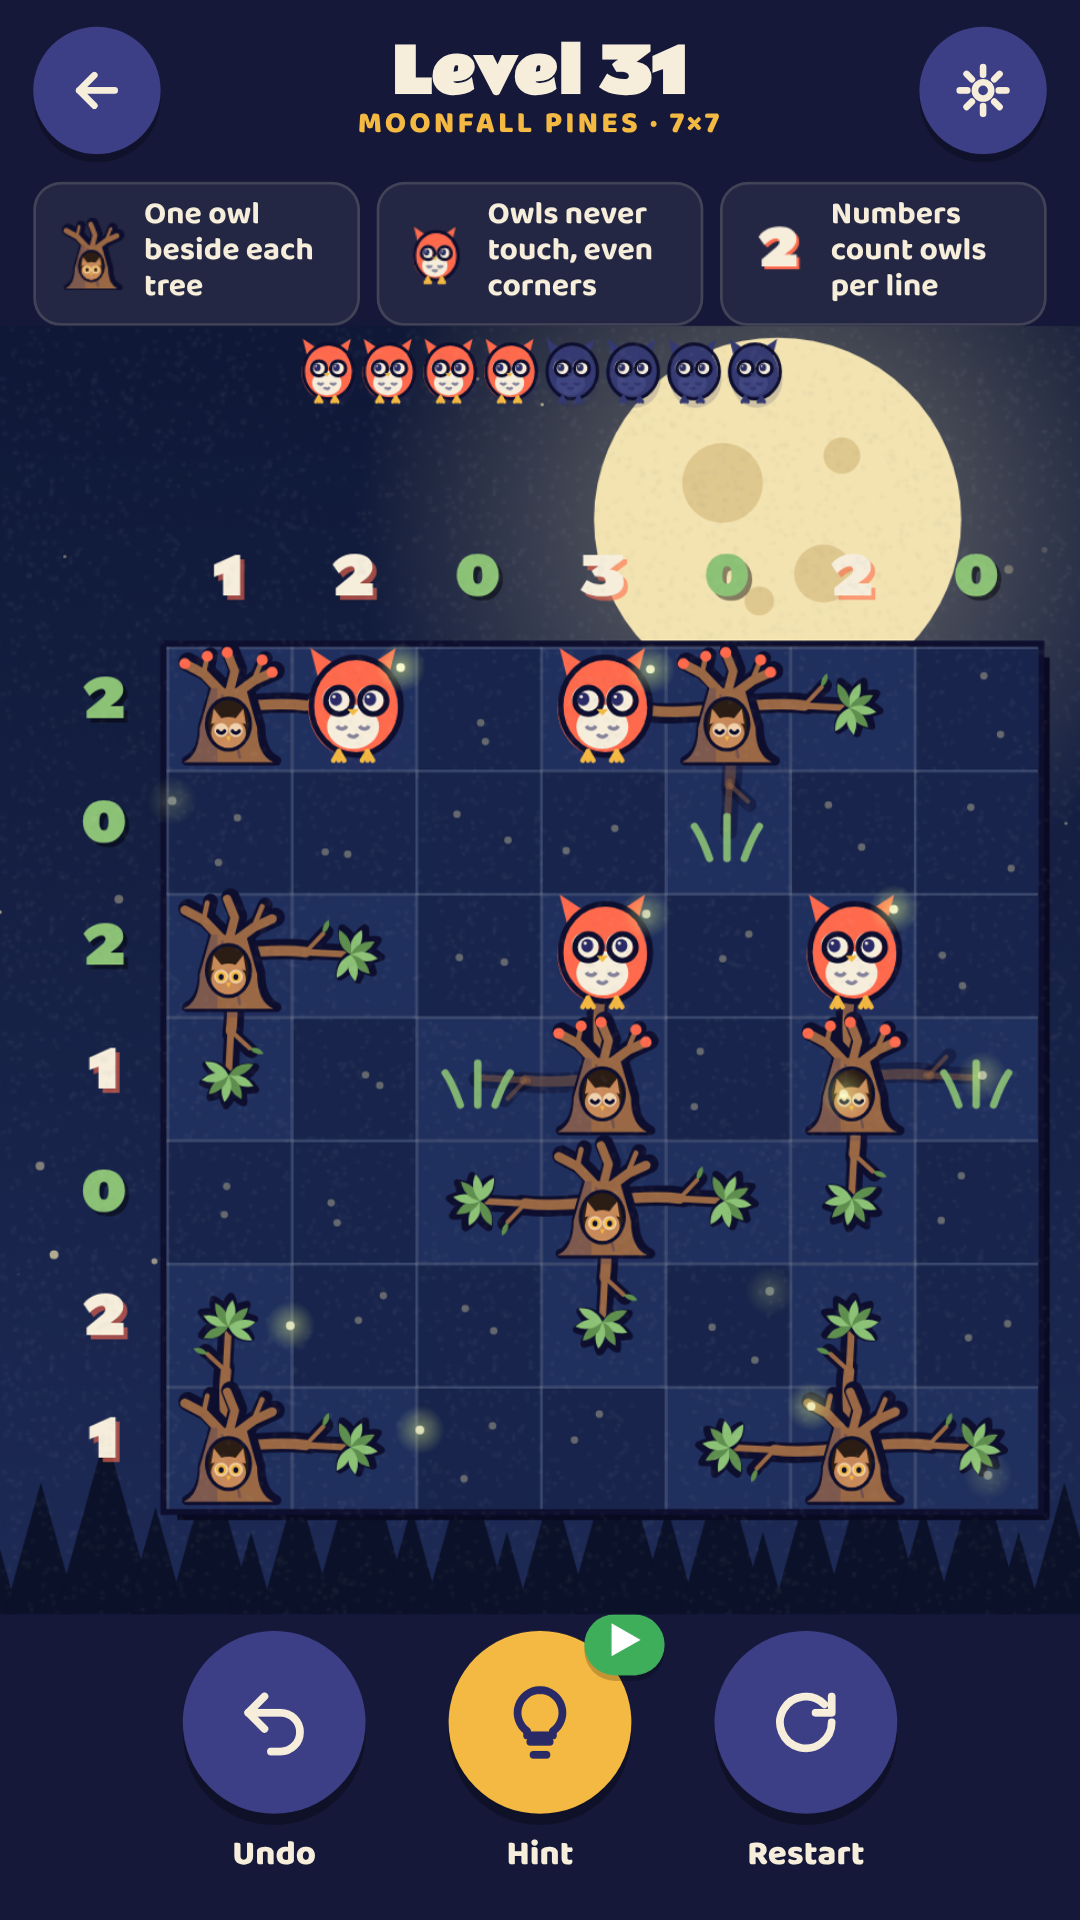
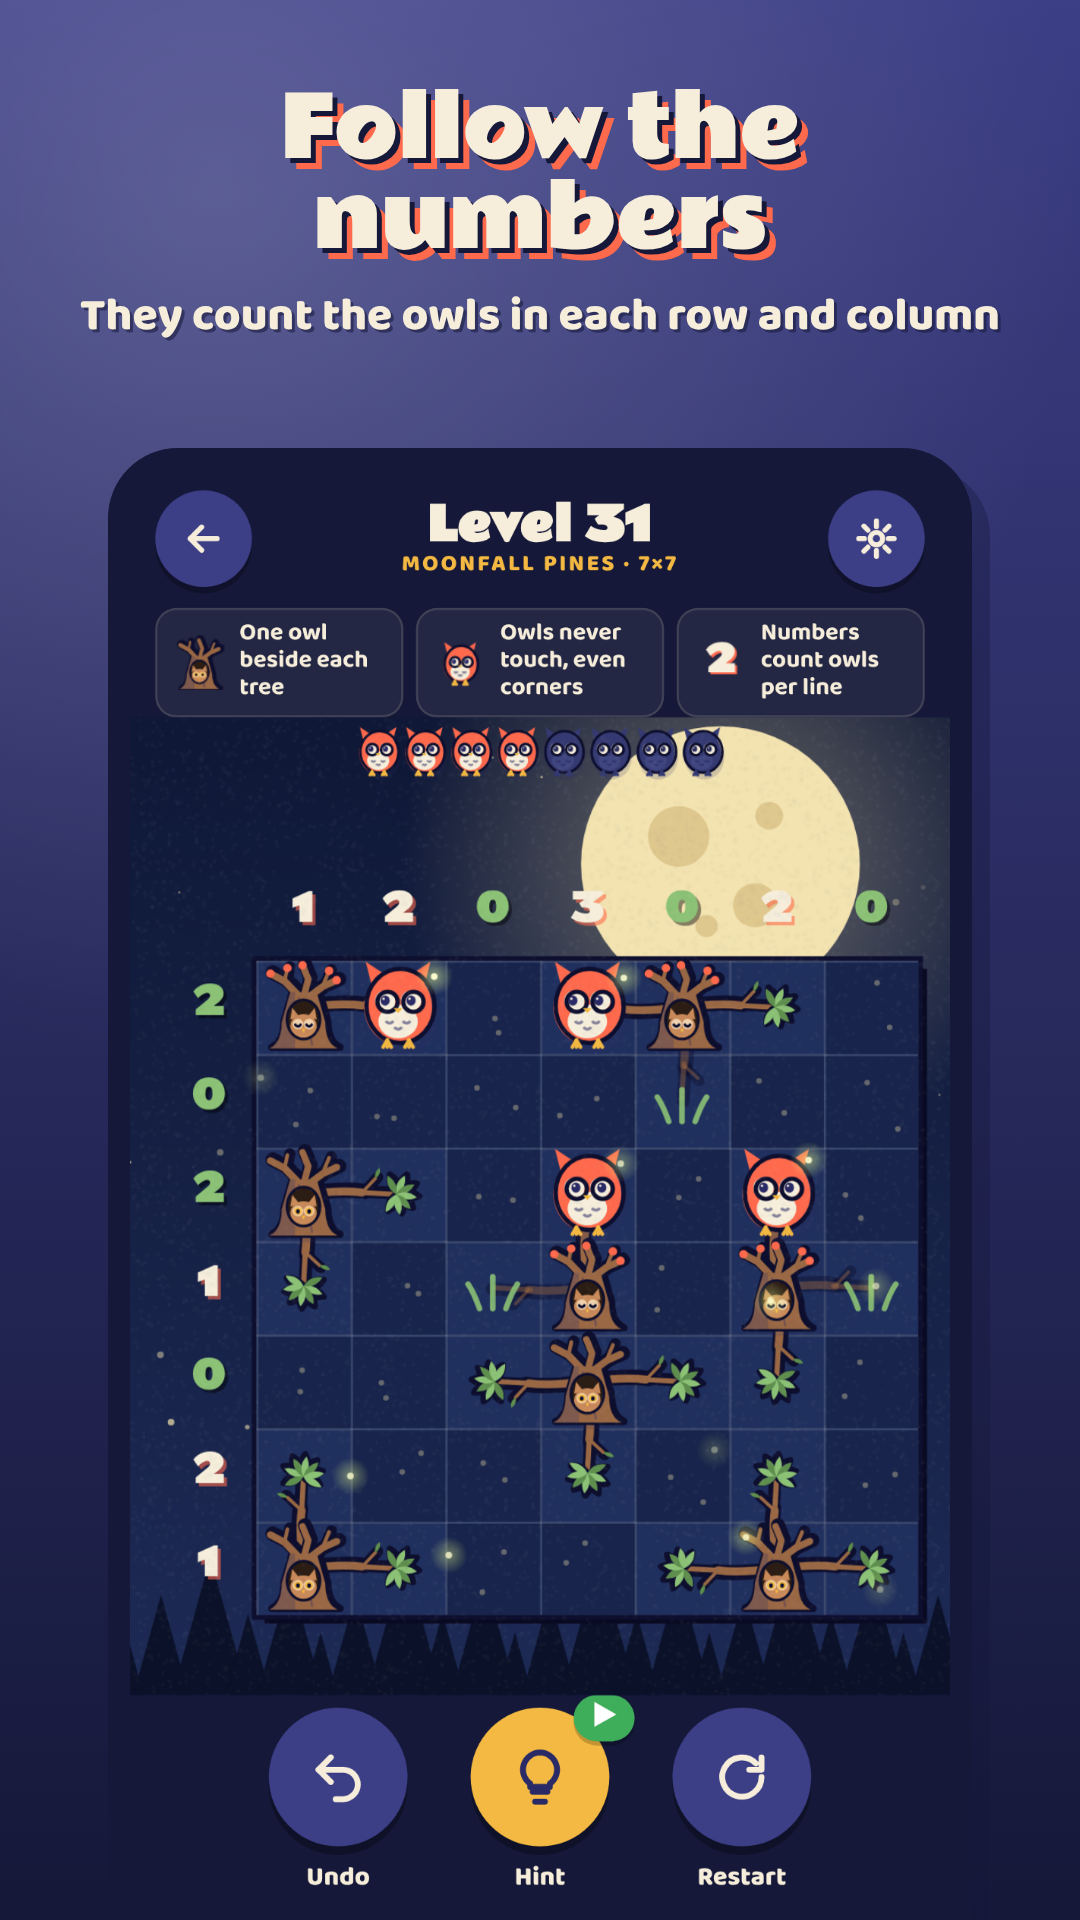
Draft captioned store screenshots and new feature graphic (awaiting approval)
Claude-Session: https://claude.ai/code/session_0163bitPGhQnfFzFA1BGZtP2

diff --git a/tools/store/feature.html b/tools/store/feature.html
@@ -1,0 +1,16 @@
+<!doctype html>
+<html><head><meta charset="utf-8">
+<link rel="stylesheet" href="https://fonts.googleapis.com/css2?family=Rammetto+One&family=Baloo+2:wght@700;800&display=swap">
+<style>
+  html, body { margin: 0; }
+  .fg { width: 1024px; height: 500px; position: relative; overflow: hidden; background: radial-gradient(circle at 70% 40%, #262a66, #151838 70%); font-family: "Baloo 2", sans-serif; }
+  .stars { position: absolute; inset: 0; background-image: radial-gradient(#f6eedb 1.2px, transparent 1.6px), radial-gradient(#f6eedb 1px, transparent 1.4px); background-size: 97px 83px, 61px 71px; background-position: 13px 7px, 40px 30px; opacity: 0.35; }
+  .moon { position: absolute; right: 70px; top: 34px; width: 150px; height: 150px; border-radius: 50%; background: #f4b942; box-shadow: 0 0 80px 20px rgba(244,185,66,0.25); }
+  .moon i { position: absolute; border-radius: 50%; background: rgba(150,100,30,0.35); }
+  .owls { position: absolute; right: -40px; top: 150px; width: 650px; -webkit-mask-image: radial-gradient(ellipse 50% 50% at 50% 50%, #000 62%, transparent 100%); mask-image: radial-gradient(ellipse 50% 50% at 50% 50%, #000 62%, transparent 100%); }
+  .logo { position: absolute; left: 64px; top: 70px; font: 120px/0.9 "Rammetto One", sans-serif; color: #f6eedb; text-shadow: 6px 6px 0 #ff6a4d; letter-spacing: -1px; }
+  .logo span { display: block; color: #ff6a4d; text-shadow: 6px 6px 0 #0d0f2b; }
+  .tag { position: absolute; left: 64px; top: 360px; background: #3c3e86; color: #f6eedb; padding: 10px 20px; border-radius: 6px; font-size: 27px; font-weight: 800; transform: rotate(-2deg); box-shadow: 4px 4px 0 #ff6a4d; }
+</style></head>
+<body><div class="fg"><div class="stars"></div><div class="moon"><i style="left:30px;top:40px;width:34px;height:34px"></i><i style="left:90px;top:30px;width:18px;height:18px"></i><i style="left:80px;top:85px;width:28px;height:28px"></i></div>
+<img class="owls" src="owls.png"><div class="logo">Nest<span>Rows</span></div><div class="tag">One owl per nest. No owls touching.</div></div></body></html>

diff --git a/tools/store/compose.html b/tools/store/compose.html
@@ -1,0 +1,20 @@
+<!doctype html>
+<html><head><meta charset="utf-8">
+<link rel="stylesheet" href="https://fonts.googleapis.com/css2?family=Rammetto+One&family=Baloo+2:wght@700;800&display=swap">
+<style>
+  html, body { margin: 0; }
+  .shot { width: 1080px; height: 1920px; position: relative; overflow: hidden; display: flex; flex-direction: column; align-items: center; font-family: "Baloo 2", sans-serif; }
+  .shot::before { content: ""; position: absolute; inset: 0; background: radial-gradient(circle at 20% 10%, rgba(255,255,255,0.18), transparent 45%); }
+  .head { position: relative; height: 430px; display: flex; flex-direction: column; justify-content: center; }
+  h1 { position: relative; margin: 0 50px; font: 84px/1.08 "Rammetto One", sans-serif; color: #f6eedb; text-align: center; text-shadow: 5px 5px 0 #151838, 11px 11px 0 var(--shadow); letter-spacing: -1px; }
+  p { position: relative; margin: 24px 60px 0; font-size: 46px; line-height: 1.2; font-weight: 800; color: #f6eedb; text-align: center; text-shadow: 3px 3px 0 rgba(21,24,56,0.55); }
+  .phone { position: relative; margin-top: 20px; width: 820px; height: 1458px; border-radius: 70px 70px 0 0; border: 22px solid #151838; border-bottom: 0; overflow: hidden; box-shadow: 18px 18px 0 rgba(21,24,56,0.35); background: #151838; }
+  .phone img { display: block; width: 100%; }
+</style></head>
+<body><div class="shot" id="s"><div class="head"><h1 id="t"></h1><p id="sub"></p></div><div class="phone"><img id="img"></div></div>
+<script>
+  const q = new URLSearchParams(location.search);
+  document.getElementById('t').textContent = q.get('t'); document.getElementById('sub').textContent = q.get('s');
+  document.getElementById('img').src = q.get('img');
+  const s = document.getElementById('s'); s.style.background = q.get('bg'); s.style.setProperty('--shadow', q.get('sh'));
+</script></body></html>

diff --git a/tools/store/compose.js b/tools/store/compose.js
@@ -1,0 +1,21 @@
+// Captioned Play screenshots: node tools/store/compose.js  (reads store/screenshots/raw, writes store/screenshots)
+const { chromium } = require('playwright'), path = require('path');
+const root = path.resolve(__dirname, '../..');
+const SHOTS = [
+  ['1-saplings', 'Every nest wants one owl', 'A calm logic puzzle you play with one finger', 'linear(#ff6a4d,#e04a3a)', '#151838'],
+  ['2-hollow-grove', 'Owls never touch', 'Not even corner to corner', 'linear(#6fb7d8,#3d7fb8)', '#ff6a4d'],
+  ['3-moonfall-pines', 'Follow the numbers', 'They count the owls in each row and column', 'linear(#3c3e86,#151838)', '#ff6a4d'],
+  ['4-old-oak', '65 levels, 4 woods', 'From the Saplings to the mighty Old Oak', 'linear(#5f8f4e,#3e6a33)', '#151838'],
+  ['5-daily-streak', 'A new tree every night', 'Keep your Daily Roost streak going', 'linear(#f4b942,#e08f2c)', '#151838'],
+  ['6-menu', 'Pure logic, no guessing', 'Every puzzle has one solution. Hints explain why.', 'linear(#c95a9a,#7c3d8f)', '#151838'],
+];
+(async () => {
+  const b = await chromium.launch(), p = await b.newPage({ viewport: { width: 1080, height: 1920 } });
+  for (const [f, t, s, bg, sh] of SHOTS) {
+    const u = new URL('file://' + path.join(__dirname, 'compose.html'));
+    Object.entries({ t, s, sh, bg: bg.replace('linear(', 'linear-gradient(180deg,'), img: 'file://' + path.join(root, 'store/screenshots/raw', f + '.png') }).forEach(([k, v]) => u.searchParams.set(k, v));
+    await p.goto(u.href); await p.evaluate(() => document.fonts.ready); await p.waitForTimeout(300);
+    await p.screenshot({ path: path.join(root, 'store/screenshots', f + '.png') });
+  }
+  await b.close();
+})();
